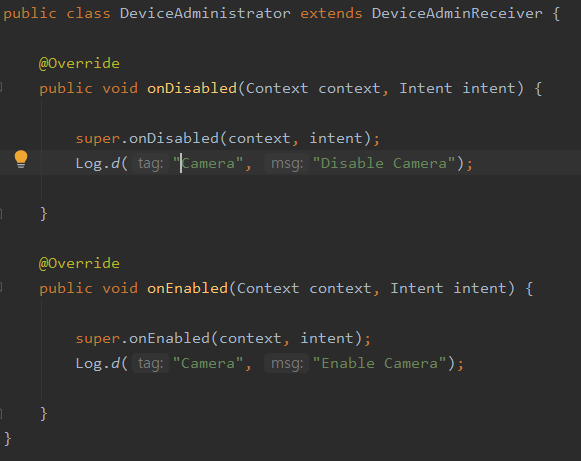
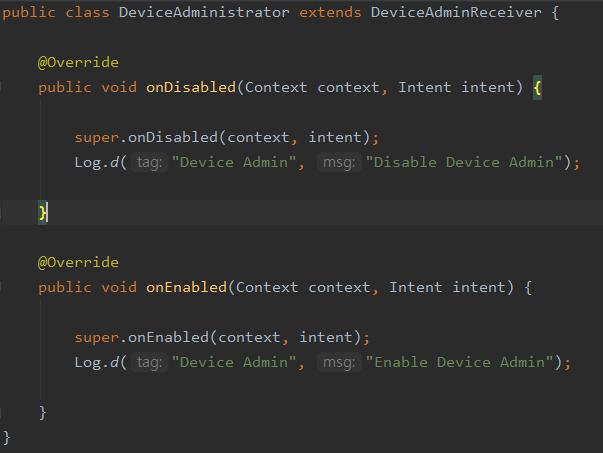
Some Codes Changed

diff --git a/app/src/main/java/kr/sjsoft/cameracontrolexample/DeviceAdministrator.java b/app/src/main/java/kr/sjsoft/cameracontrolexample/DeviceAdministrator.java
@@ -15,7 +15,7 @@ public class DeviceAdministrator extends DeviceAdminReceiver {
     public void onDisabled(Context context, Intent intent) {
 
         super.onDisabled(context, intent);
-        Log.d("Camera", "Disable Camera");
+        Log.d("Device Admin", "Disable Device Admin");
 
     }
 
@@ -23,7 +23,7 @@ public class DeviceAdministrator extends DeviceAdminReceiver {
     public void onEnabled(Context context, Intent intent) {
 
         super.onEnabled(context, intent);
-        Log.d("Camera", "Enable Camera");
+        Log.d("Device Admin", "Enable Device Admin");
 
     }
 }
